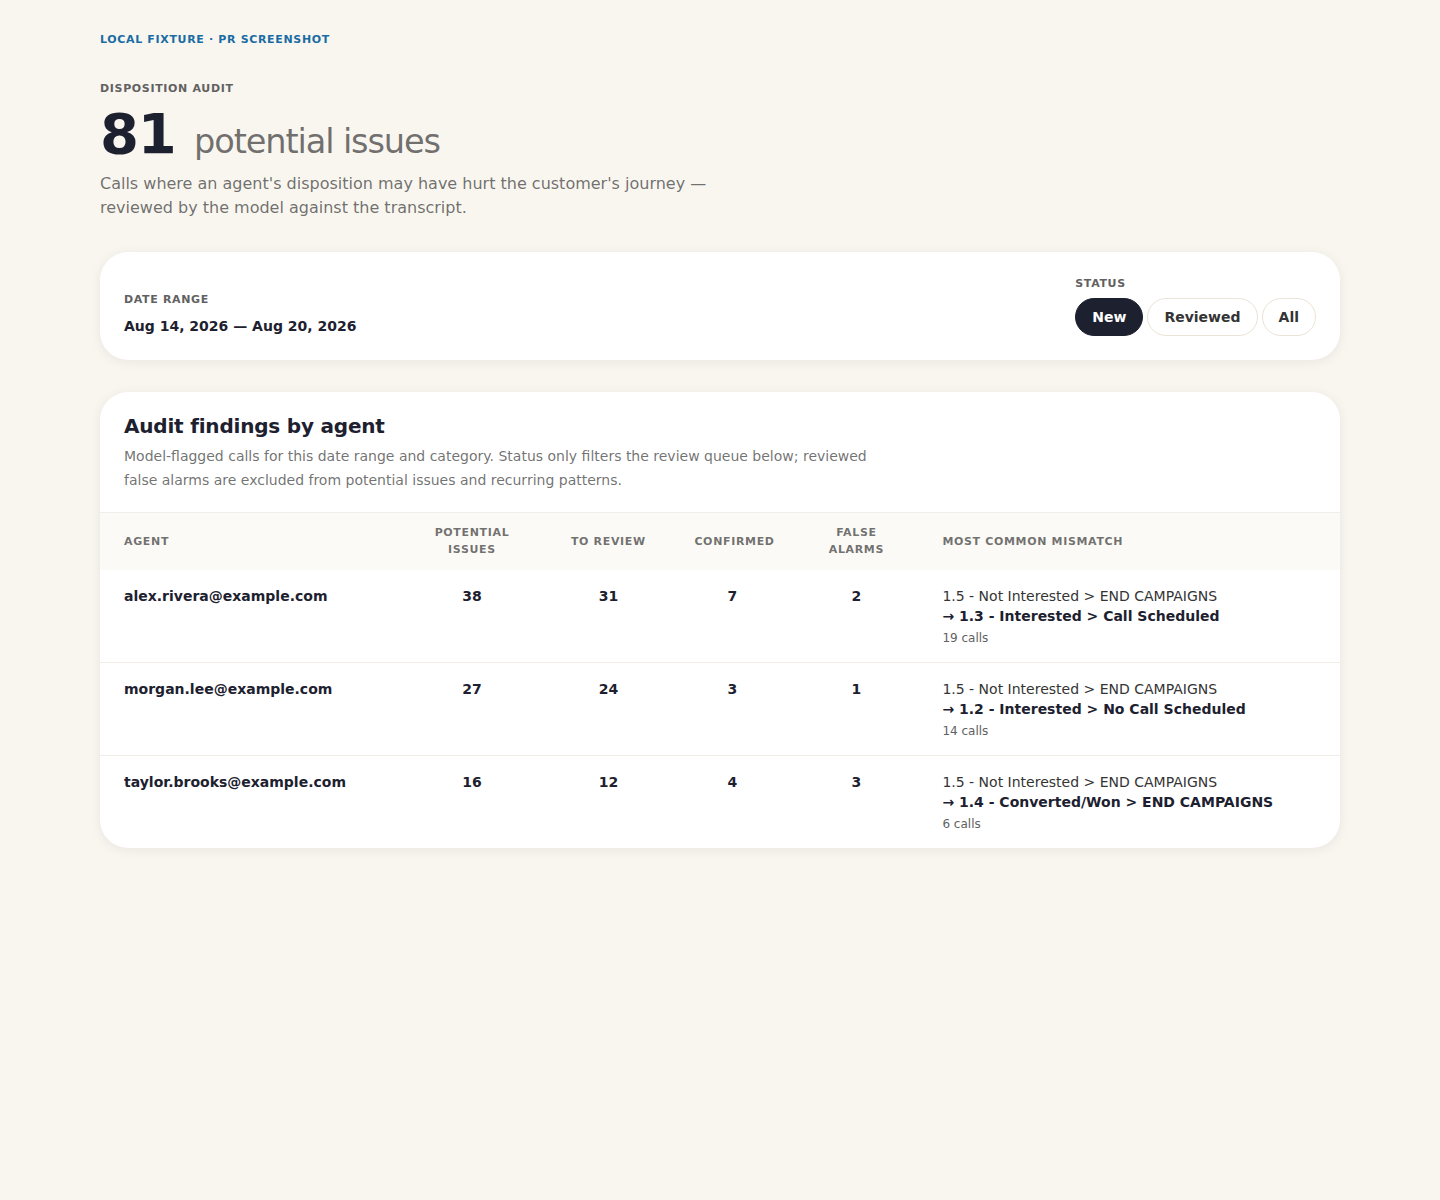
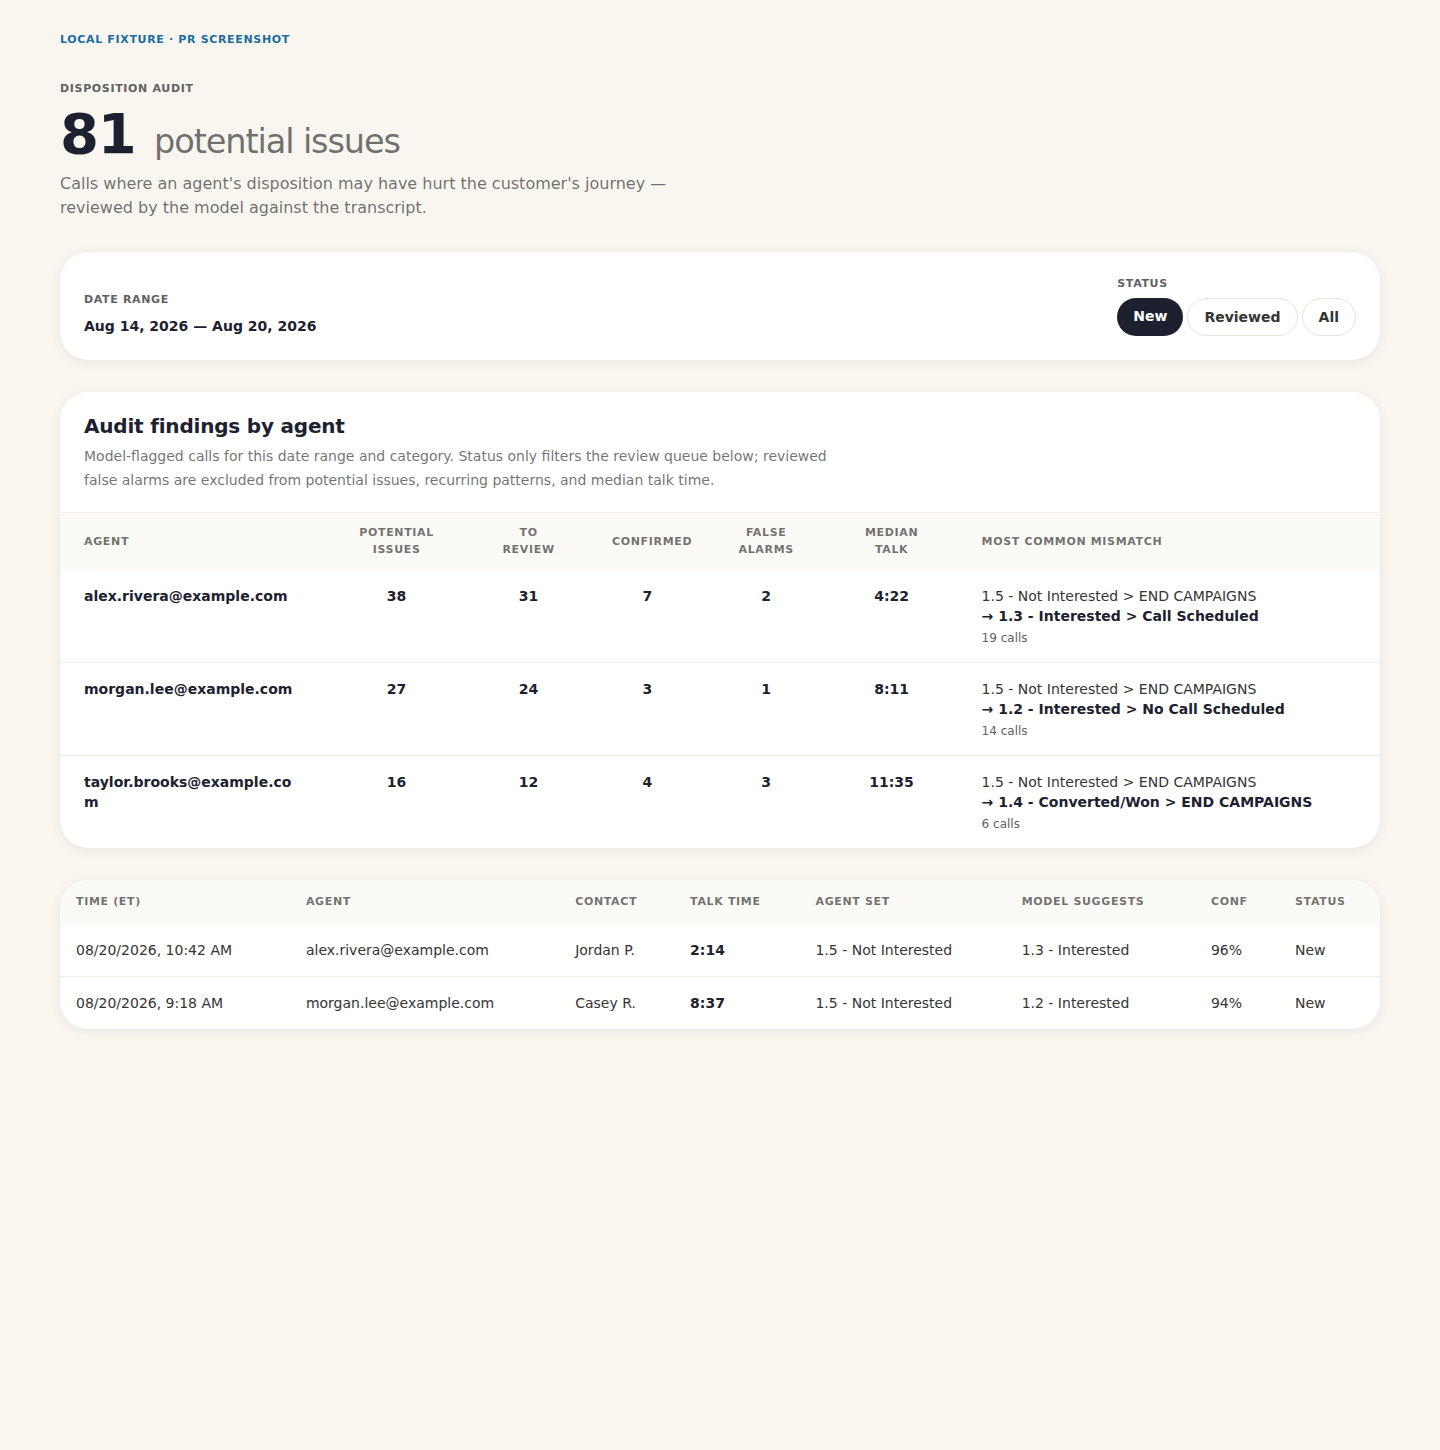
Add talk time to disposition audit

diff --git a/src/pages/DispositionAuditPage.tsx b/src/pages/DispositionAuditPage.tsx
@@ -14,7 +14,7 @@ import { DispositionAuditDrawer } from '../components/alerts/DispositionAuditDra
 import { DateRangePicker } from '../components/dashboard/DateRangePicker'
 import { parseDateParam, formatDateParam } from '../lib/url-filters'
 import { ymdInBusinessTZ } from '../lib/time-zone'
-import { formatDateTime, formatPhoneNumber } from '../lib/utils'
+import { formatDateTime, formatDuration, formatPhoneNumber } from '../lib/utils'
 import { PageHero } from '../components/PageHero'
 import { ErrorState } from '@/components/states/ErrorState'
 import { EmptyState } from '@/components/states/EmptyState'
@@ -35,6 +35,12 @@ function todayStart() {
 function todayEnd() {
   const [y, m, d] = ymdInBusinessTZ(new Date()).split('-').map(Number)
   const local = new Date(y, m - 1, d); local.setHours(23, 59, 59, 999); return local
+}
+
+function formatAuditTalkTime(seconds: number | null): string {
+  if (seconds === null || !Number.isFinite(seconds) || seconds < 0) return '—'
+  if (seconds === 0) return '0:00'
+  return formatDuration(Math.round(seconds))
 }
 
 export default function DispositionAuditPage() {
@@ -180,7 +186,7 @@ export default function DispositionAuditPage() {
             <table className="min-w-full">
               <thead className="bg-pennie-beige/60">
                 <tr>
-                  <Th>Time (ET)</Th><Th>Agent</Th><Th>Contact</Th><Th>Agent set</Th><Th>Model suggests</Th><Th>Conf</Th><Th>Status</Th>
+                  <Th>Time (ET)</Th><Th>Agent</Th><Th>Contact</Th><Th>Talk time</Th><Th>Agent set</Th><Th>Model suggests</Th><Th>Conf</Th><Th>Status</Th>
                   <th aria-hidden="true" className="w-10" />
                 </tr>
               </thead>
@@ -196,6 +202,7 @@ export default function DispositionAuditPage() {
                       <div className="text-sm text-pennie-graphite font-medium">{r.contact_name || '—'}</div>
                       <div className="text-xs text-muted-foreground tabular-nums">{formatPhoneNumber(r.contact_phone)}</div>
                     </Td>
+                    <Td><span className="text-sm font-semibold text-pennie-navy tabular-nums">{formatAuditTalkTime(r.talk_time)}</span></Td>
                     <Td><span className="text-sm text-pennie-graphite">{r.current_disposition || '—'}</span></Td>
                     <Td><span className="text-sm font-semibold text-pennie-navy">{r.suggested_disposition || '—'}</span></Td>
                     <Td><span className="text-sm tabular-nums text-pennie-graphite/70">{r.model_confidence != null ? `${Math.round(r.model_confidence * 100)}%` : '—'}</span></Td>
@@ -248,7 +255,7 @@ function AgentDispositionSummary({ stats, refreshing }: {
             Audit findings by agent
           </h2>
           <p className="mt-1 max-w-3xl text-sm leading-6 text-pennie-graphite/70">
-            Model-flagged calls for this date range and category. Status only filters the review queue below; reviewed false alarms are excluded from potential issues and recurring patterns.
+            Model-flagged calls for this date range and category. Status only filters the review queue below; reviewed false alarms are excluded from potential issues, recurring patterns, and median talk time.
           </p>
         </div>
         <RefreshingHint active={refreshing} />
@@ -259,12 +266,13 @@ function AgentDispositionSummary({ stats, refreshing }: {
           <caption className="sr-only">Disposition audit findings grouped by agent</caption>
           <thead className="bg-pennie-beige/60">
             <tr>
-              <AgentSummaryTh className="w-[24%]">Agent</AgentSummaryTh>
-              <AgentSummaryTh className="w-[12%] text-center">Potential issues</AgentSummaryTh>
-              <AgentSummaryTh className="w-[10%] text-center">To review</AgentSummaryTh>
-              <AgentSummaryTh className="w-[10%] text-center">Confirmed</AgentSummaryTh>
-              <AgentSummaryTh className="w-[10%] text-center">False alarms</AgentSummaryTh>
-              <AgentSummaryTh className="w-[34%]">Most common mismatch</AgentSummaryTh>
+              <AgentSummaryTh className="w-[20%]">Agent</AgentSummaryTh>
+              <AgentSummaryTh className="w-[11%] text-center">Potential issues</AgentSummaryTh>
+              <AgentSummaryTh className="w-[9%] text-center">To review</AgentSummaryTh>
+              <AgentSummaryTh className="w-[9%] text-center">Confirmed</AgentSummaryTh>
+              <AgentSummaryTh className="w-[9%] text-center">False alarms</AgentSummaryTh>
+              <AgentSummaryTh className="w-[10%] text-center">Median talk</AgentSummaryTh>
+              <AgentSummaryTh className="w-[32%]">Most common mismatch</AgentSummaryTh>
             </tr>
           </thead>
           <tbody className="divide-y divide-border/60">
@@ -277,6 +285,7 @@ function AgentDispositionSummary({ stats, refreshing }: {
                 <AgentSummaryCount value={stat.toReview} />
                 <AgentSummaryCount value={stat.confirmedIssues} />
                 <AgentSummaryCount value={stat.falseAlarms} />
+                <AgentSummaryDuration seconds={stat.medianTalkTimeSeconds} />
                 <td className="px-6 py-4 align-top">
                   <MismatchPattern stat={stat} />
                 </td>
@@ -297,6 +306,12 @@ function AgentDispositionSummary({ stats, refreshing }: {
               <AgentSummaryMetric label="To review" value={stat.toReview} />
               <AgentSummaryMetric label="Confirmed" value={stat.confirmedIssues} />
               <AgentSummaryMetric label="False alarms" value={stat.falseAlarms} />
+              <div className="col-span-2">
+                <dt className="pennie-label">Median talk time</dt>
+                <dd className="mt-1 text-xl font-semibold text-pennie-navy tabular-nums">
+                  {formatAuditTalkTime(stat.medianTalkTimeSeconds)}
+                </dd>
+              </div>
             </dl>
             <div className="mt-4 border-t border-border/60 pt-4">
               <p className="pennie-label">Most common mismatch</p>
@@ -343,6 +358,10 @@ function AgentSummaryTh({ children, className = '' }: { children: React.ReactNod
 
 function AgentSummaryCount({ value }: { value: number }) {
   return <td className="px-3 py-4 text-center align-top text-sm font-semibold text-pennie-navy tabular-nums">{value.toLocaleString()}</td>
+}
+
+function AgentSummaryDuration({ seconds }: { seconds: number | null }) {
+  return <td className="px-3 py-4 text-center align-top text-sm font-semibold text-pennie-navy tabular-nums">{formatAuditTalkTime(seconds)}</td>
 }
 
 function Th({ children }: { children: React.ReactNode }) {

diff --git a/src/pages/disposition-audit-agent-stats.check.ts b/src/pages/disposition-audit-agent-stats.check.ts
@@ -10,6 +10,7 @@ function row(overrides: Partial<Row> = {}): Row {
     agent_email: 'agent@trypennie.com',
     current_disposition: '1.5 - Not Interested',
     suggested_disposition: '1.3 - Interested',
+    talk_time: 120,
     is_reviewed: false,
     accurate: null,
     ...overrides,
@@ -18,11 +19,11 @@ function row(overrides: Partial<Row> = {}): Row {
 
 const source = [
   row(),
-  row({ agent_email: ' Agent@TryPennie.com ', is_reviewed: true, accurate: true }),
-  row({ suggested_disposition: '1.4 - Converted' }),
-  row({ is_reviewed: true, accurate: false, suggested_disposition: 'False alarm target' }),
+  row({ agent_email: ' Agent@TryPennie.com ', talk_time: 300, is_reviewed: true, accurate: true }),
+  row({ suggested_disposition: '1.4 - Converted', talk_time: 60 }),
+  row({ talk_time: 5, is_reviewed: true, accurate: false, suggested_disposition: 'False alarm target' }),
   row({ agent_email: 'other@trypennie.com', suggested_disposition: '1.4 - Converted' }),
-  row({ agent_email: null, current_disposition: null, suggested_disposition: null }),
+  row({ agent_email: null, current_disposition: null, suggested_disposition: null, talk_time: 0 }),
 ] as const
 
 const snapshot = structuredClone(source)
@@ -36,6 +37,7 @@ assert.deepEqual(stats[0], {
   toReview: 2,
   confirmedIssues: 1,
   falseAlarms: 1,
+  medianTalkTimeSeconds: 120,
   topMismatch: {
     currentDisposition: '1.5 - Not Interested',
     suggestedDisposition: '1.3 - Interested',
@@ -43,6 +45,7 @@ assert.deepEqual(stats[0], {
   },
 })
 assert.equal(stats[1].agentEmail, null)
+assert.equal(stats[1].medianTalkTimeSeconds, 0, 'zero-second calls are valid duration evidence')
 assert.deepEqual(stats[1].topMismatch, {
   currentDisposition: 'Unknown disposition',
   suggestedDisposition: 'Unknown disposition',
@@ -55,6 +58,7 @@ const falseAlarmOnly = aggregateDispositionAuditByAgent([
 ])[0]
 assert.equal(falseAlarmOnly.potentialIssues, 0)
 assert.equal(falseAlarmOnly.falseAlarms, 1)
+assert.equal(falseAlarmOnly.medianTalkTimeSeconds, null)
 assert.equal(falseAlarmOnly.topMismatch, null)
 
 const tied = aggregateDispositionAuditByAgent([
@@ -73,6 +77,12 @@ assert.deepEqual(
   ['alpha@example.com', 'zulu@example.com', 'confirmed@example.com'],
   'agent ties must rank by to-review count, then email',
 )
+
+const evenMedian = aggregateDispositionAuditByAgent([
+  row({ talk_time: 60 }),
+  row({ talk_time: 120 }),
+])[0]
+assert.equal(evenMedian.medianTalkTimeSeconds, 90)
 
 assert.deepEqual(aggregateDispositionAuditByAgent([]), [])
 console.log('disposition-audit-agent-stats checks passed')

diff --git a/src/pages/disposition-audit-agent-stats.ts b/src/pages/disposition-audit-agent-stats.ts
@@ -2,7 +2,7 @@ import type { DispositionAuditRow } from '../lib/disposition-audit-queries'
 
 type AgentStatRow = Pick<
   DispositionAuditRow,
-  'agent_email' | 'current_disposition' | 'suggested_disposition' | 'is_reviewed' | 'accurate'
+  'agent_email' | 'current_disposition' | 'suggested_disposition' | 'talk_time' | 'is_reviewed' | 'accurate'
 >
 
 export type DispositionMismatchPattern = {
@@ -17,6 +17,7 @@ export type DispositionAuditAgentStat = {
   readonly toReview: number
   readonly confirmedIssues: number
   readonly falseAlarms: number
+  readonly medianTalkTimeSeconds: number | null
   readonly topMismatch: DispositionMismatchPattern | null
 }
 
@@ -26,11 +27,20 @@ type MutableAgentStat = {
   toReview: number
   confirmedIssues: number
   falseAlarms: number
+  talkTimes: number[]
   mismatches: Map<string, DispositionMismatchPattern>
 }
 
 const UNKNOWN_AGENT_KEY = '\u0000unknown-agent'
 const UNKNOWN_DISPOSITION = 'Unknown disposition'
+
+function median(values: ReadonlyArray<number>): number | null {
+  if (values.length === 0) return null
+  const sorted = [...values].sort((a, b) => a - b)
+  const middle = Math.floor(sorted.length / 2)
+  if (sorted.length % 2 === 1) return sorted[middle]
+  return (sorted[middle - 1] + sorted[middle]) / 2
+}
 
 /**
  * Summarizes the page's already-scoped audit findings by agent.
@@ -50,6 +60,7 @@ export function aggregateDispositionAuditByAgent(
       toReview: 0,
       confirmedIssues: 0,
       falseAlarms: 0,
+      talkTimes: [],
       mismatches: new Map<string, DispositionMismatchPattern>(),
     }
 
@@ -59,6 +70,9 @@ export function aggregateDispositionAuditByAgent(
     } else {
       stat.potentialIssues += 1
       if (row.accurate === true) stat.confirmedIssues += 1
+      if (row.talk_time !== null && Number.isFinite(row.talk_time) && row.talk_time >= 0) {
+        stat.talkTimes.push(row.talk_time)
+      }
 
       const currentDisposition = row.current_disposition?.trim() || UNKNOWN_DISPOSITION
       const suggestedDisposition = row.suggested_disposition?.trim() || UNKNOWN_DISPOSITION
@@ -80,6 +94,7 @@ export function aggregateDispositionAuditByAgent(
     toReview: stat.toReview,
     confirmedIssues: stat.confirmedIssues,
     falseAlarms: stat.falseAlarms,
+    medianTalkTimeSeconds: median(stat.talkTimes),
     topMismatch: Array.from(stat.mismatches.values()).sort(
       (a, b) =>
         b.count - a.count ||

diff --git a/src/lib/disposition-audit-queries.ts b/src/lib/disposition-audit-queries.ts
@@ -25,6 +25,7 @@ export type DispositionAuditRow = AlertWithFeedback & {
   model_conversation_happened: string | null
   model_confidence: number | null
   audit_category: AuditCategory
+  talk_time: number | null
 }
 
 export type AuditFilters = {
@@ -50,6 +51,7 @@ const AUDIT_LIST_COLUMNS = [
   'model_conversation_happened',
   'model_confidence',
   'audit_category',
+  'talk_time',
   'is_reviewed',
   'accurate',
   'action_taken',
